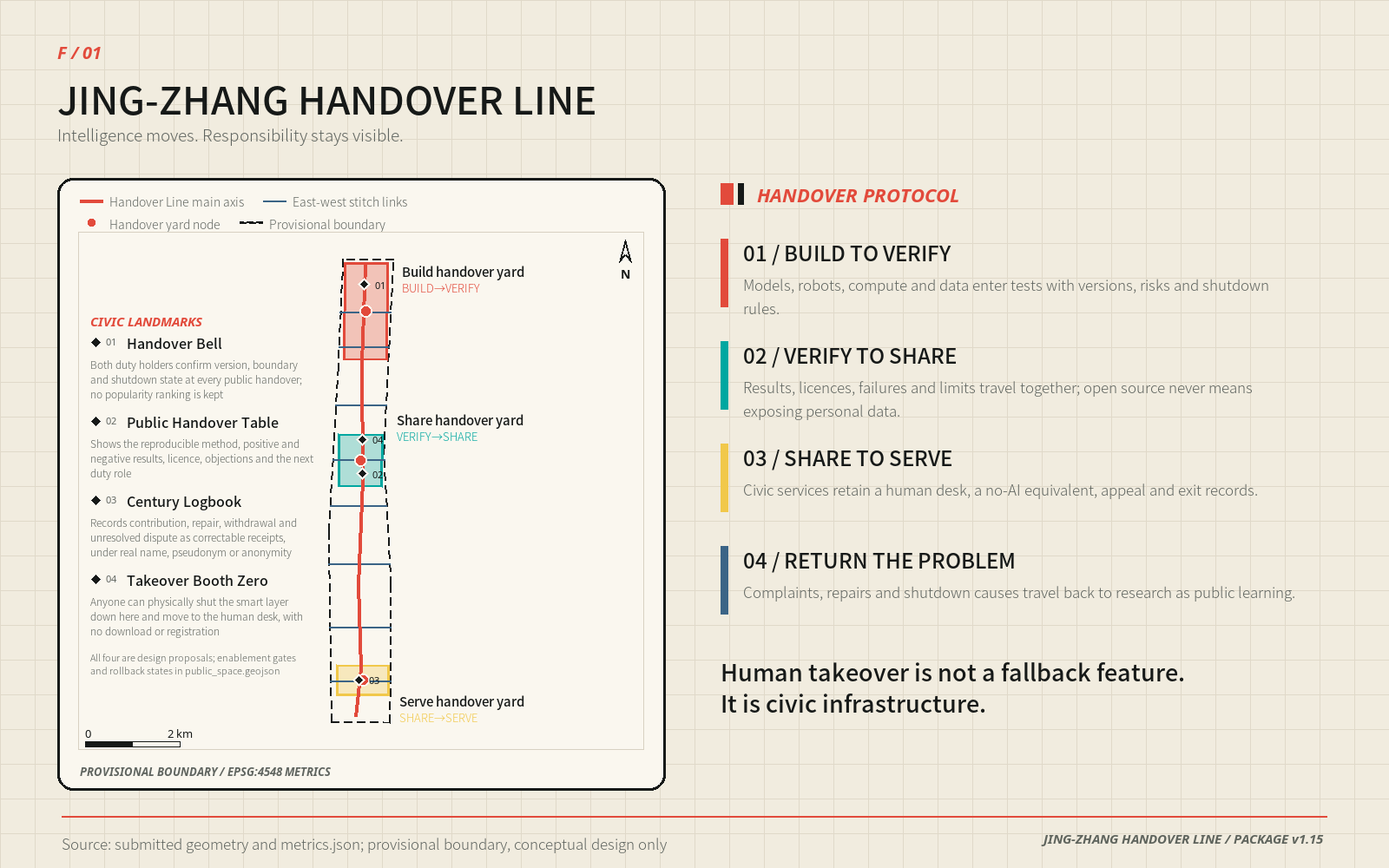
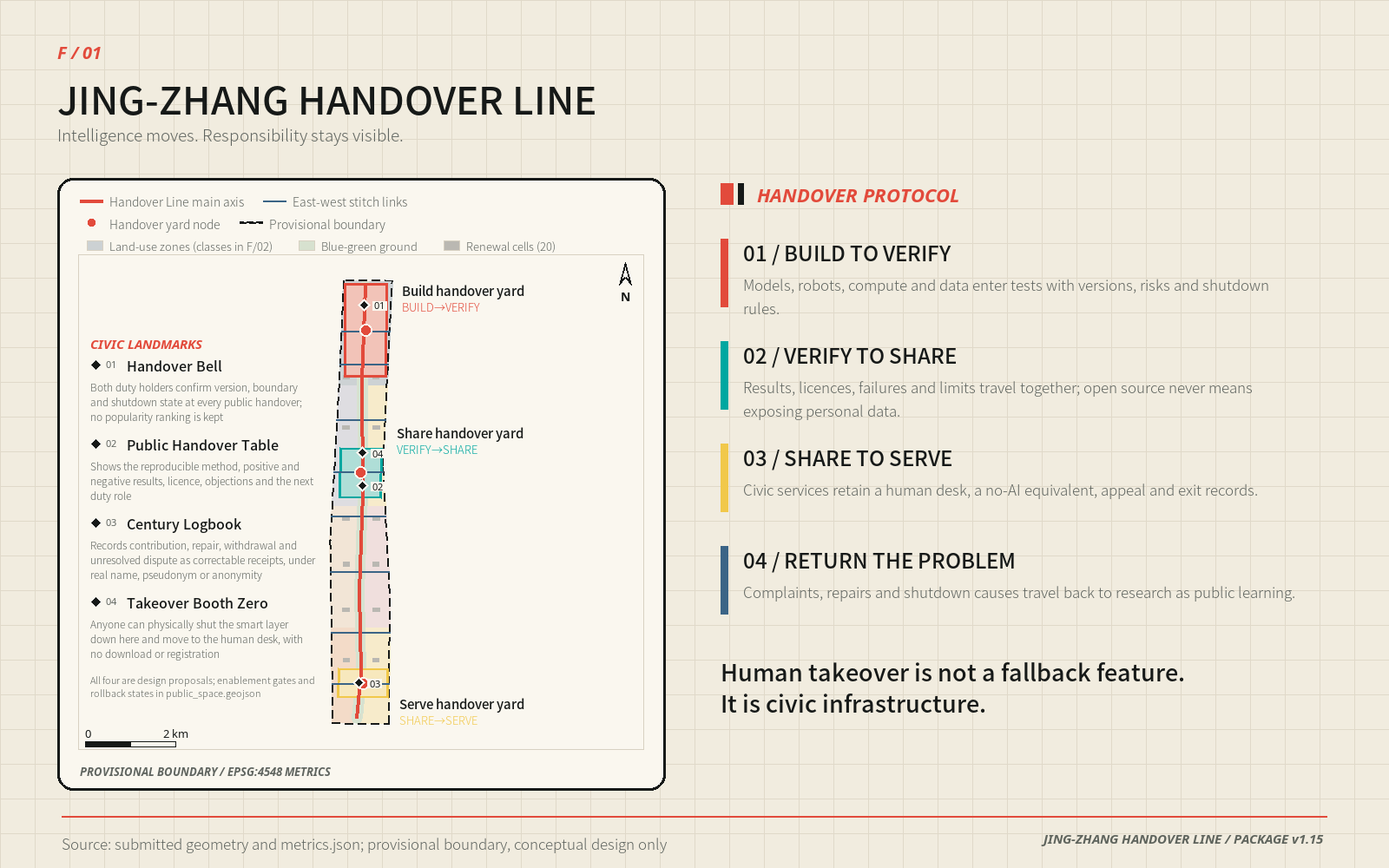
总览图走廊内部不再是白的；补回四处「矩阵点名、正文没有」的具体对象
上两轮（#3263、#3267）连续 90，方向确认，继续按同一条线找缺口。

- F/01 总览图此前走廊内部纯白，读者在「总平面总览」上看不到任何用地关系，
  而同一批几何在 A0 B/01 上早就画了。现补上用地分区、沿轴蓝绿基底与二十个
  更新单元，同源同色，并加一行图例说明。透明度按本图比例尺上调——A0 是整幅
  大图，F/01 走廊只有约 82px 宽，照抄 A0 的 0.14/0.34/0.55 在 72 dpi 下几乎
  看不见。顺手修掉地标编号 03 被主轴压成「θ3」的压字。
  四套 PDF 未内嵌这张图（swap_figure_only 实测换图 0 处），无需重建图纸。
- 系统审计 23 条 evidence_summary_zh，把摘要点名的具体对象与正文求差，抓出
  6 个「矩阵声称、正文没有」的对象：北五环、慢行断点、清河、西土城路、
  北京电影学院、屋顶形态，集中在公告 1.5.2.4 与 1.5.2.5 两条必答要求上。
  与上轮的 42 处章节断链同族：闸门查不到，评审读得到。
- 按公告补回内容，每条都写明不成立的推论：三处慢行断点只给连接意图与界面
  原则，不给桥隧形式、跨度或工程可行性结论；两条水系不改动河道形态与防洪
  断面；西土城路艺术资源属协作意向；屋顶形态按第五立面可读引导。

正文 26,529 → 27,193 字；中英 469/469 行、36/36 标题；四门全绿。

Changed region(s): [[0.0625, 0.279, 0.4062, 0.837], [0.4375, 0.279, 0.4688, 0.341]]

diff --git a/submissions/Sonike/jingzhang-handover-line/report/proposal.en.html b/submissions/Sonike/jingzhang-handover-line/report/proposal.en.html
@@ -144,7 +144,7 @@ code {
 <p>The submitted overall boundary recomputes to approximately 11.413 sq km and remains a provisional model quantity. The spatial framework is not the boundary colour field. It is a 9.50 km north-south handover spine, eight east-west stitch links, three Handover Yards and four civic landmarks. The east-west links reconnect universities, parks, communities and transit to the spine. The spine moves a capability from building to service and returns problems to research <sup class="evidence evidence-metric" data-evidence-kind="metric" data-evidence-value="site_area_sqm" title="Metric: site_area_sqm">Metric</sup> <sup class="evidence evidence-metric" data-evidence-kind="metric" data-evidence-value="handover_spine_length_m" title="Metric: handover_spine_length_m">Metric</sup> <sup class="evidence evidence-metric" data-evidence-kind="metric" data-evidence-value="cross_link_count" title="Metric: cross_link_count">Metric</sup>.</p>
 <p>The three key areas use one protocol but carry different duties. Zhongzhiyuan is the Build Handover Yard for BUILD→VERIFY. Beijing AI Origin Community is the Share Handover Yard for VERIFY→SHARE. Dazhongsi is the Serve Handover Yard for SHARE→SERVE. They are not three similar technology parks; they are three non-interchangeable functions in one innovation chain <sup class="evidence evidence-data" data-evidence-kind="data" data-evidence-value="geometry/key_areas.geojson#PROV-KEY-001" title="Spatial data: geometry/key_areas.geojson#PROV-KEY-001">Spatial data</sup> <sup class="evidence evidence-metric" data-evidence-kind="metric" data-evidence-value="key_area_count" title="Metric: key_area_count">Metric</sup>.</p>
 <figure class="proposal-figure"><img src="../assets/figures/site-overview.en.png" alt="Overall concept: one Handover Line, three Handover Yards, two support wings, eight stitch links and four civic landmarks"><figcaption>Overall concept: one Handover Line, three Handover Yards, two support wings, eight stitch links and four civic landmarks</figcaption></figure>
-<blockquote><p><strong>The dashed outline is a provisional range, not the protagonist.</strong> The red north-south line carries responsibility handover and the blue cross-links stitch everyday city life back to it. Three coloured yards place building, sharing and civic service in distinct duty positions. Four diamond landmarks make contribution, shutdown, maintenance and human takeover visible in public space.</p></blockquote>
+<blockquote><p><strong>The dashed outline is a provisional range, not the protagonist.</strong> The red north-south line carries responsibility handover and the blue cross-links stitch everyday city life back to it. Three coloured yards place building, sharing and civic service in distinct duty positions. Four diamond landmarks make contribution, shutdown, maintenance and human takeover visible in public space. The pale base inside the corridor comes from the same submitted geometry — land-use zones (classes in the land-use figure of the next section), the blue-green ground along the spine, and the twenty renewal cells — so the drawing shows a mixed-use stretch of city the line passes through, not an axis drawn on empty ground.</p></blockquote>
 <h2>Coordinated Research Area: Industry and Future City Research</h2>
 <p>The Handover Line is not another approval wall. It is a shorter and more trustworthy route for good technology to become urban. Conventional innovation chains often break between laboratory output and city use: a product lacks a controlled place to be tested, a service operator cannot identify which version it received, and failed experience does not return to research. The proposal fills this gap with four explicit handovers. BUILD brings version, risk and shutdown procedures to VERIFY. VERIFY passes positive and negative results with limits of applicability to SHARE. SHARE passes licence, maintenance and recall rules to SERVE. SERVE returns complaints, repairs and exit causes to BUILD.</p>
 <p>The taskbook’s three positionings therefore sit on one timeline. The Centennial Jing-Zhang Cultural Belt preserves the intergenerational memory of independent construction and responsible handover. The Metropolitan AI Life Experience Belt lets ordinary people understand, try, refuse and appeal. The AI Integrated Innovation Belt provides validation, open collaboration and industrial translation. Its five functions become research testing, result validation, open collaboration, civic service and long-term governance rather than five parallel slogans <sup class="evidence evidence-source" data-evidence-kind="source" data-evidence-value="AGENT-TASKBOOK" title="Source: AGENT-TASKBOOK">Source</sup> <sup class="evidence evidence-standard" data-evidence-kind="standard" data-evidence-value="PROJECT-AGENT-OPEN-CALL-TASKBOOK" title="Standard: PROJECT-AGENT-OPEN-CALL-TASKBOOK">Standard</sup>.</p>
@@ -190,6 +190,7 @@ code {
 <h2>Transport, Rail, Municipal Infrastructure, and Public Services</h2>
 <p>Transport first ensures that a person can complete the route continuously, then adds smart service. The north-south spine retains continuous walking and cycling surfaces while eight east-west links reconnect adjacent districts. The last 500 metres from transit to civic service prioritise orientation, shade, seating, accessibility and human help. When AI navigation fails, fixed wayfinding, a tactile map, an unpowered route and a person remain available <sup class="evidence evidence-data" data-evidence-kind="data" data-evidence-value="geometry/roads.geojson#ROAD-001" title="Spatial data: geometry/roads.geojson#ROAD-001">Spatial data</sup> <sup class="evidence evidence-depth" data-evidence-kind="depth" data-evidence-value="traffic_rail_slow_parking" title="Depth: traffic_rail_slow_parking">Depth</sup>.</p>
 <p>The proposal does not pre-design railway or road engineering. Eight spine-link intersections are registered as potential grade-break review points and require surveyed long sections and road redlines. Maximum gradient is not inferred without elevation data. Robots and delivery devices may be tested only in separated, time-bounded areas where a safety steward can stop them physically; they may not occupy the step-free walking surface.</p>
+<p>As the backbone of the vitality belt, the heritage park has three walking-continuity breakpoints that must be handled individually: the junction with the existing street network at its north end, the crossing towards Dazhongsi at its south end, and continuity where it passes over the North Fifth Ring Road. At these three points this proposal states only the intent to connect and the interface principles — continuous, with a usable detour, shaded, and with staffed wayfinding — and <strong>states no bridge or tunnel form, span, or engineering feasibility conclusion</strong>; those three belong to transport and municipal professionals working from survey data and statutory procedure <sup class="evidence evidence-depth" data-evidence-kind="depth" data-evidence-value="traffic_rail_slow_parking" title="Depth: traffic_rail_slow_parking">Depth</sup>.</p>
 <p>Municipal strategy begins with reversible metering. Edge devices meter energy and heat independently. Temporary installations do not connect to unverified municipal systems. Drinking water, toilets, shaded seating, staffed counters, steady lighting, telephone and paper service precede new screens. Sensors may report status; they cannot establish drainage, power, fire, structure or communications capacity <sup class="evidence evidence-depth" data-evidence-kind="depth" data-evidence-value="municipal_new_infrastructure" title="Depth: municipal_new_infrastructure">Depth</sup>.</p>
 <figure class="proposal-figure"><img src="../assets/figures/mobility-bluegreen.en.png" alt="Continuous transport, walking, blue-green civic space and the twelve AI scenario nodes"><figcaption>Continuous transport, walking, blue-green civic space and the twelve AI scenario nodes</figcaption></figure>
 <p>Public service uses two layers, not a primary service and a fallback. The basic layer consists of staff, telephone, paper, fixed wayfinding and directly usable space. Only after that layer exists does the smart layer add translation, retrieval, reminders, route explanation and state organisation. Turning the smart layer off never downgrades the basic layer. This protects older people, disabled people, children, international visitors, people without smartphones and anyone who chooses not to use an algorithm.</p>
@@ -197,6 +198,8 @@ code {
 <p>In the submitted model, concept green space represents approximately 19.84% of the provisional range and concept public handover ground approximately 9.11%. These are internal design-geometry quantities, not surveyed green ratio, statutory control or built increase. They must be redrawn and recomputed when ecological baseline, trees, hydrology, terrain and public-space surveys become available <sup class="evidence evidence-metric" data-evidence-kind="metric" data-evidence-value="green_ratio" title="Metric: green_ratio">Metric</sup> <sup class="evidence evidence-metric" data-evidence-kind="metric" data-evidence-value="public_space_ratio" title="Metric: public_space_ratio">Metric</sup> <sup class="evidence evidence-depth" data-evidence-kind="depth" data-evidence-value="blue_green_public_space" title="Depth: blue_green_public_space">Depth</sup>.</p>
 <p>The blue-green system performs three practical jobs. It gives continuous walking shade and rest, offers reversible points for rain and soil observation, and forms a speed buffer between human service and machine testing. Rest strips have no spending threshold. Vegetation, movable separation and the safety steward’s duty together separate a test lane from the walk; a screen warning alone is insufficient.</p>
 <p>Urban character derives from four railway primitives: line, station, shift and ledger. The line is continuous space, the stations are the three Handover Yards, the shift is a role and version, and the ledger is a public record. Materials prioritise maintenance, replacement and legibility. The scheme avoids giant technology sculptures and irreversible dedicated devices. Night lighting keeps a steady basic layer and returns to it whenever smart adjustment fails.</p>
+<p>Two watercourses anchor public life in the northern and middle stretches: the Qing River in the north and the Xiaoyue River in the middle. Waterside sections give priority to shade, places to sit and stop, and continuous walking; bankside fittings are removable and maintainable, and neither the channel form nor the flood section is altered. Art resources along Xitucheng Road, represented by the Beijing Film Academy, are connected on a &quot;link without occupying&quot; basis — a possible collaboration on filmed records, public screenings and shared narrative, an intention rather than a settled arrangement. The same applies towards Qinghuayuan Station: no change to the heritage fabric itself is proposed, and protection measures and opening arrangements follow the heritage authority.</p>
+<p>Height and intensity await the official regulatory plan, so character control uses checkable guidance rather than fixed numbers: massing is controlled through courtyards, through-passages and segmented frontages; <strong>roof form is guided by &quot;equipment integrated first, a legible fifth facade, and no large reflective or glare-producing surfaces&quot;</strong>, with space reserved for distributed energy and rainwater facilities. All of this is urban-design advice, subject to statutory approval <sup class="evidence evidence-source" data-evidence-kind="source" data-evidence-value="MOHURD-URBAN-DESIGN-MEASURES" title="Source: MOHURD-URBAN-DESIGN-MEASURES">Source</sup> <sup class="evidence evidence-depth" data-evidence-kind="depth" data-evidence-value="height_massing_character" title="Depth: height_massing_character">Depth</sup>.</p>
 <p>Four AI pilgrimage landmarks move honour away from capital scale and towards civic contribution. The Handover Bell records when a capability was accepted independently. The Public Handover Table shows positive and negative results with refusal reasons. The Century Logbook credits maintainers, repairers and people who stopped a service in time. Takeover Booth Zero makes basic service, human help and the stop entrance visible. All are concepts subject to ownership, heritage and public-space procedure <sup class="evidence evidence-metric" data-evidence-kind="metric" data-evidence-value="civic_landmark_count" title="Metric: civic_landmark_count">Metric</sup> <sup class="evidence evidence-data" data-evidence-kind="data" data-evidence-value="geometry/public_space.geojson#LANDMARK-01" title="Spatial data: geometry/public_space.geojson#LANDMARK-01">Spatial data</sup>.</p>
 <h3>Honour display system: a correctable record, not a leaderboard</h3>
 <p>Honour records run a seven-step loop — nomination, evidence, dual review, published objection, correction, withdrawal, appeal — and accept real names, pseudonyms, or anonymity. They are never ranked by traffic or votes. Every record must be open to being challenged and corrected; a withdrawn record keeps its stated reason for withdrawal rather than being erased from public memory. The Century Logbook is its physical carrier, and the Handover Bell and Public Handover Table are its once-a-year public moment <sup class="evidence evidence-data" data-evidence-kind="data" data-evidence-value="geometry/public_space.geojson#LANDMARK-03" title="Spatial data: geometry/public_space.geojson#LANDMARK-03">Spatial data</sup>.</p>

diff --git a/submissions/Sonike/jingzhang-handover-line/report/proposal.html b/submissions/Sonike/jingzhang-handover-line/report/proposal.html
@@ -144,7 +144,7 @@ code {
 <p>总体设计范围在提交几何中复算为约 11.413 平方公里，只是临时模型量。空间骨架不是边界色块，而是 9.50 公里的南北交接主轴、八条东西缝合支线、三座交接场和四处公共地标。东西支线把高校、园区、社区、轨道与公园生活接回主轴；南北主轴让一项能力从研制走到服务，再把问题送回研发 <sup class="evidence evidence-metric" data-evidence-kind="metric" data-evidence-value="site_area_sqm" title="指标：site_area_sqm">指标</sup> <sup class="evidence evidence-metric" data-evidence-kind="metric" data-evidence-value="handover_spine_length_m" title="指标：handover_spine_length_m">指标</sup> <sup class="evidence evidence-metric" data-evidence-kind="metric" data-evidence-value="cross_link_count" title="指标：cross_link_count">指标</sup>。</p>
 <p>三处重点区域采用同一交接协议，但承担不同责任：众智园是研制交接场，负责 BUILD→VERIFY；北京 AI 原点社区是开源交接场，负责 VERIFY→SHARE；大钟寺是城市交接场，负责 SHARE→SERVE。三者不是三个相似园区，而是同一条创新链上不能互相替代的三种城市功能 <sup class="evidence evidence-data" data-evidence-kind="data" data-evidence-value="geometry/key_areas.geojson#PROV-KEY-001" title="空间数据：geometry/key_areas.geojson#PROV-KEY-001">空间数据</sup> <sup class="evidence evidence-metric" data-evidence-kind="metric" data-evidence-value="key_area_count" title="指标：key_area_count">指标</sup>。</p>
 <figure class="proposal-figure"><img src="../assets/figures/site-overview.png" alt="总体概念：一条交接线、三座交接场、两翼支撑、八条缝合支线与四处公共地标"><figcaption>总体概念：一条交接线、三座交接场、两翼支撑、八条缝合支线与四处公共地标</figcaption></figure>
-<blockquote><p><strong>图中虚线是临时范围，不是设计主角。</strong> 红色南北线承担责任交接，蓝色横线缝合两侧城市生活；三个彩色交接场分别把研制、开源和公共服务放在不同的责任位置。四个菱形地标让贡献、停用、维修和人工接管能在公共空间被看见。</p></blockquote>
+<blockquote><p><strong>图中虚线是临时范围，不是设计主角。</strong> 红色南北线承担责任交接，蓝色横线缝合两侧城市生活；三个彩色交接场分别把研制、开源和公共服务放在不同的责任位置。四个菱形地标让贡献、停用、维修和人工接管能在公共空间被看见。走廊内部的浅色底图是同一批提交几何：用地分区（分类见下一节的用地图）、沿轴的蓝绿基底与二十个更新单元，用来说明这条线穿过的是一段有功能混合的城市，而不是一条画在空地上的轴。</p></blockquote>
 <h2>统筹研究范围产业与未来城市研究</h2>
 <p>交接线不是给创新加一道审批墙，而是给好技术一条更短、更可信的城市化路径。常规创新链常在“实验室成果”和“城市应用”之间断开：产品不知道去哪里做受控验证，公共服务方不知道接收了哪个版本，失败经验又回不到研发。本方案把这段空白拆成四次明确交接：研制携带版本、风险和停止办法进入验证；验证把正负结果与适用边界一起交给开源；开源把许可、维护和撤回办法交给服务；服务把投诉、维修和退出原因送回研制。</p>
 <p>任务书的三大定位因此落在同一条时间线上。百年京张文化带保存“自主建造与交班”的跨代记忆；都市 AI 生活体验带让普通人能看懂、试用、拒绝和申诉；AI 融合创新带提供验证、开源与产业转化接口。五大功能分别落到研发试验、成果验证、开放协作、城市服务和长期治理，而不是并列成五个口号 <sup class="evidence evidence-source" data-evidence-kind="source" data-evidence-value="AGENT-TASKBOOK" title="来源：AGENT-TASKBOOK">来源</sup> <sup class="evidence evidence-standard" data-evidence-kind="standard" data-evidence-value="PROJECT-AGENT-OPEN-CALL-TASKBOOK" title="标准：PROJECT-AGENT-OPEN-CALL-TASKBOOK">标准</sup>。</p>
@@ -190,6 +190,7 @@ code {
 <h2>交通、轨道、市政与公共服务设施</h2>
 <p>交通策略先确保“人能连续走完”，再叠加智能服务。南北主轴保留连续步行与骑行面，八条东西支线连接两侧街区；站口到公共服务的最后五百米优先完成辨向、遮荫、坐憩、无障碍和人工求助。AI 导航失效时，固定导视、触觉地图、无电路线和真人仍然可用 <sup class="evidence evidence-data" data-evidence-kind="data" data-evidence-value="geometry/roads.geojson#ROAD-001" title="空间数据：geometry/roads.geojson#ROAD-001">空间数据</sup> <sup class="evidence evidence-depth" data-evidence-kind="depth" data-evidence-value="traffic_rail_slow_parking" title="深度：traffic_rail_slow_parking">深度</sup>。</p>
 <p>轨道与道路工程不被本方案预设。八个主轴—支线交汇点被登记为潜在高差检查点，需用正式纵断面和道路红线逐处复核；未取得高程时不推算最大纵坡。机器人和配送只在明确隔离、限时开放并由安全员可物理停机的范围内测试，不能侵占无障碍步行面。</p>
+<p>遗址公园作为活力带骨架，有三处慢行断点必须单独处理：北端与既有城市路网的衔接、南端进入大钟寺方向的过街、以及上跨北五环的连续性。本方案在这三处只给出连接意图与界面原则——连续、可绕行、有遮荫、有人工问路——<strong>不给桥隧形式、跨度或工程可行性结论</strong>，这三项须由交通与市政专业依实测和法定程序确定 <sup class="evidence evidence-depth" data-evidence-kind="depth" data-evidence-value="traffic_rail_slow_parking" title="深度：traffic_rail_slow_parking">深度</sup>。</p>
 <p>市政策略从可逆计量开始。端侧设备必须独立计量用电和温升，临时设施不接入未经核定的市政系统；饮水、厕所、遮荫座椅、人工窗口、常亮照明、电话和纸本服务优先于新增屏幕。传感器可以报告状态，不能代替排水、电力、消防、结构和通信容量的专业核定 <sup class="evidence evidence-depth" data-evidence-kind="depth" data-evidence-value="municipal_new_infrastructure" title="深度：municipal_new_infrastructure">深度</sup>。</p>
 <figure class="proposal-figure"><img src="../assets/figures/mobility-bluegreen.png" alt="交通、慢行、蓝绿公共空间与十二个 AI 场景的连续关系"><figcaption>交通、慢行、蓝绿公共空间与十二个 AI 场景的连续关系</figcaption></figure>
 <p>公共服务采用“双层服务”而不是“备用服务”。基础层由人工窗口、电话、纸本、固定导视和可直接使用的空间组成；智能层只在基础层已经成立后提供翻译、检索、提醒、路径说明和状态整理。智能层被关闭时，基础层不降级；这条原则保护老人、残障者、儿童、国际访客、无智能手机者和主动拒绝算法的人。</p>
@@ -197,6 +198,8 @@ code {
 <p>提交模型中的概念绿地约占临时范围 19.84%，概念公共交接面约占 9.11%。它们是设计几何的内部量，不是现状绿地率、法定指标或已实施增量。正式生态本底、树木、水文、地形与公共空间调查到位后须重新划定和复算 <sup class="evidence evidence-metric" data-evidence-kind="metric" data-evidence-value="green_ratio" title="指标：green_ratio">指标</sup> <sup class="evidence evidence-metric" data-evidence-kind="metric" data-evidence-value="public_space_ratio" title="指标：public_space_ratio">指标</sup> <sup class="evidence evidence-depth" data-evidence-kind="depth" data-evidence-value="blue_green_public_space" title="深度：blue_green_public_space">深度</sup>。</p>
 <p>蓝绿空间承担三种实际作用：为连续步行面提供遮荫与休息，为雨水和土壤观察提供可逆测量位置，为人工服务和智能测试之间形成速度缓冲。休憩带不设消费门槛；机器试验带与步行面之间用植被、围界和安全员职责共同分隔，不能只靠屏幕提示。</p>
 <p>城市风貌从铁路的“线、站、班、簿”四个原型出发。线对应连续空间，站对应三座交接场，班对应角色与版本，簿对应公开记录。材料以可维护、可更换、可读为先，避免巨型科技雕塑和不可撤的专用装置；夜间照明保持常亮基础层，智能调节异常时回到稳定照明。</p>
+<p>两条水系分别锚固北段与中段的公共生活：北段的清河与中段的小月河，滨水段优先给树荫、可坐可停与连续慢行，水岸设施可撤除、可维护，不改动河道形态与防洪断面。西土城路方向以北京电影学院为代表的艺术资源按“连接而不占用”接入，承担影像记录、公共放映与叙事共创的合作可能，属协作意向而非已确定安排；清华园车站方向同理，不主张对文物本体作任何改动，保护措施与开放方式以文保主管部门意见为准。</p>
+<p>高度与强度待官方控规确定，因此风貌管控采用“可校验的引导”而不是固定数值：体量以院落、穿行门廊和界面分段控制；<strong>屋顶形态按“设备整合优先、第五立面可读、避免大面积反光与眩光”引导</strong>，并为分布式能源与雨水设施预留位置。以上属城市设计建议，最终以法定审批为准 <sup class="evidence evidence-source" data-evidence-kind="source" data-evidence-value="MOHURD-URBAN-DESIGN-MEASURES" title="来源：MOHURD-URBAN-DESIGN-MEASURES">来源</sup> <sup class="evidence evidence-depth" data-evidence-kind="depth" data-evidence-value="height_massing_character" title="深度：height_massing_character">深度</sup>。</p>
 <p>四处 AI 朝圣地标把荣誉从资本规模转向公共贡献：交接钟记录一项能力何时被独立接收；公开交接桌展示正负结果和拒收理由；百年值班簿保存维护者、修复者与及时停用者的署名；零号接管亭让任何人看见基础服务、人工求助和停用入口。四处均为概念建议，落位须服从权属、文保与公共空间程序 <sup class="evidence evidence-metric" data-evidence-kind="metric" data-evidence-value="civic_landmark_count" title="指标：civic_landmark_count">指标</sup> <sup class="evidence evidence-data" data-evidence-kind="data" data-evidence-value="geometry/public_space.geojson#LANDMARK-01" title="空间数据：geometry/public_space.geojson#LANDMARK-01">空间数据</sup>。</p>
 <h3>荣誉展示体系：可纠错的记录，不是排行榜</h3>
 <p>荣誉记录按“提名—证据—双复核—公示异议—纠错—撤回—申诉”七步闭环运行，允许实名、化名或匿名署名，不按流量或投票排名。任何一条记录都必须能被指出错误并被改正；被撤回的记录保留撤回原因，不从公共记忆里抹去。百年值班簿是它的物理载体，交接钟与公开交接桌是它每年一次的公开时刻 <sup class="evidence evidence-data" data-evidence-kind="data" data-evidence-value="geometry/public_space.geojson#LANDMARK-03" title="空间数据：geometry/public_space.geojson#LANDMARK-03">空间数据</sup>。</p>

diff --git a/submissions/Sonike/jingzhang-handover-line/proposal.en.md b/submissions/Sonike/jingzhang-handover-line/proposal.en.md
@@ -91,7 +91,7 @@ The three key areas use one protocol but carry different duties. Zhongzhiyuan is
 
 ![Overall concept: one Handover Line, three Handover Yards, two support wings, eight stitch links and four civic landmarks](assets/figures/site-overview.en.png)
 
-> **The dashed outline is a provisional range, not the protagonist.** The red north-south line carries responsibility handover and the blue cross-links stitch everyday city life back to it. Three coloured yards place building, sharing and civic service in distinct duty positions. Four diamond landmarks make contribution, shutdown, maintenance and human takeover visible in public space.
+> **The dashed outline is a provisional range, not the protagonist.** The red north-south line carries responsibility handover and the blue cross-links stitch everyday city life back to it. Three coloured yards place building, sharing and civic service in distinct duty positions. Four diamond landmarks make contribution, shutdown, maintenance and human takeover visible in public space. The pale base inside the corridor comes from the same submitted geometry — land-use zones (classes in the land-use figure of the next section), the blue-green ground along the spine, and the twenty renewal cells — so the drawing shows a mixed-use stretch of city the line passes through, not an axis drawn on empty ground.
 
 ## Coordinated Research Area: Industry and Future City Research
 
@@ -239,6 +239,8 @@ Transport first ensures that a person can complete the route continuously, then 
 
 The proposal does not pre-design railway or road engineering. Eight spine-link intersections are registered as potential grade-break review points and require surveyed long sections and road redlines. Maximum gradient is not inferred without elevation data. Robots and delivery devices may be tested only in separated, time-bounded areas where a safety steward can stop them physically; they may not occupy the step-free walking surface.
 
+As the backbone of the vitality belt, the heritage park has three walking-continuity breakpoints that must be handled individually: the junction with the existing street network at its north end, the crossing towards Dazhongsi at its south end, and continuity where it passes over the North Fifth Ring Road. At these three points this proposal states only the intent to connect and the interface principles — continuous, with a usable detour, shaded, and with staffed wayfinding — and **states no bridge or tunnel form, span, or engineering feasibility conclusion**; those three belong to transport and municipal professionals working from survey data and statutory procedure [depth:traffic_rail_slow_parking].
+
 Municipal strategy begins with reversible metering. Edge devices meter energy and heat independently. Temporary installations do not connect to unverified municipal systems. Drinking water, toilets, shaded seating, staffed counters, steady lighting, telephone and paper service precede new screens. Sensors may report status; they cannot establish drainage, power, fire, structure or communications capacity [depth:municipal_new_infrastructure].
 
 ![Continuous transport, walking, blue-green civic space and the twelve AI scenario nodes](assets/figures/mobility-bluegreen.en.png)
@@ -252,6 +254,10 @@ In the submitted model, concept green space represents approximately 19.84% of t
 The blue-green system performs three practical jobs. It gives continuous walking shade and rest, offers reversible points for rain and soil observation, and forms a speed buffer between human service and machine testing. Rest strips have no spending threshold. Vegetation, movable separation and the safety steward’s duty together separate a test lane from the walk; a screen warning alone is insufficient.
 
 Urban character derives from four railway primitives: line, station, shift and ledger. The line is continuous space, the stations are the three Handover Yards, the shift is a role and version, and the ledger is a public record. Materials prioritise maintenance, replacement and legibility. The scheme avoids giant technology sculptures and irreversible dedicated devices. Night lighting keeps a steady basic layer and returns to it whenever smart adjustment fails.
+
+Two watercourses anchor public life in the northern and middle stretches: the Qing River in the north and the Xiaoyue River in the middle. Waterside sections give priority to shade, places to sit and stop, and continuous walking; bankside fittings are removable and maintainable, and neither the channel form nor the flood section is altered. Art resources along Xitucheng Road, represented by the Beijing Film Academy, are connected on a "link without occupying" basis — a possible collaboration on filmed records, public screenings and shared narrative, an intention rather than a settled arrangement. The same applies towards Qinghuayuan Station: no change to the heritage fabric itself is proposed, and protection measures and opening arrangements follow the heritage authority.
+
+Height and intensity await the official regulatory plan, so character control uses checkable guidance rather than fixed numbers: massing is controlled through courtyards, through-passages and segmented frontages; **roof form is guided by "equipment integrated first, a legible fifth facade, and no large reflective or glare-producing surfaces"**, with space reserved for distributed energy and rainwater facilities. All of this is urban-design advice, subject to statutory approval [source:MOHURD-URBAN-DESIGN-MEASURES] [depth:height_massing_character].
 
 Four AI pilgrimage landmarks move honour away from capital scale and towards civic contribution. The Handover Bell records when a capability was accepted independently. The Public Handover Table shows positive and negative results with refusal reasons. The Century Logbook credits maintainers, repairers and people who stopped a service in time. Takeover Booth Zero makes basic service, human help and the stop entrance visible. All are concepts subject to ownership, heritage and public-space procedure [metric:civic_landmark_count] [data:geometry/public_space.geojson#LANDMARK-01].
 

diff --git a/submissions/Sonike/jingzhang-handover-line/proposal.md b/submissions/Sonike/jingzhang-handover-line/proposal.md
@@ -91,7 +91,7 @@ iteration: "v1.15"
 
 ![总体概念：一条交接线、三座交接场、两翼支撑、八条缝合支线与四处公共地标](assets/figures/site-overview.png)
 
-> **图中虚线是临时范围，不是设计主角。** 红色南北线承担责任交接，蓝色横线缝合两侧城市生活；三个彩色交接场分别把研制、开源和公共服务放在不同的责任位置。四个菱形地标让贡献、停用、维修和人工接管能在公共空间被看见。
+> **图中虚线是临时范围，不是设计主角。** 红色南北线承担责任交接，蓝色横线缝合两侧城市生活；三个彩色交接场分别把研制、开源和公共服务放在不同的责任位置。四个菱形地标让贡献、停用、维修和人工接管能在公共空间被看见。走廊内部的浅色底图是同一批提交几何：用地分区（分类见下一节的用地图）、沿轴的蓝绿基底与二十个更新单元，用来说明这条线穿过的是一段有功能混合的城市，而不是一条画在空地上的轴。
 
 ## 统筹研究范围产业与未来城市研究
 
@@ -239,6 +239,8 @@ iteration: "v1.15"
 
 轨道与道路工程不被本方案预设。八个主轴—支线交汇点被登记为潜在高差检查点，需用正式纵断面和道路红线逐处复核；未取得高程时不推算最大纵坡。机器人和配送只在明确隔离、限时开放并由安全员可物理停机的范围内测试，不能侵占无障碍步行面。
 
+遗址公园作为活力带骨架，有三处慢行断点必须单独处理：北端与既有城市路网的衔接、南端进入大钟寺方向的过街、以及上跨北五环的连续性。本方案在这三处只给出连接意图与界面原则——连续、可绕行、有遮荫、有人工问路——**不给桥隧形式、跨度或工程可行性结论**，这三项须由交通与市政专业依实测和法定程序确定 [depth:traffic_rail_slow_parking]。
+
 市政策略从可逆计量开始。端侧设备必须独立计量用电和温升，临时设施不接入未经核定的市政系统；饮水、厕所、遮荫座椅、人工窗口、常亮照明、电话和纸本服务优先于新增屏幕。传感器可以报告状态，不能代替排水、电力、消防、结构和通信容量的专业核定 [depth:municipal_new_infrastructure]。
 
 ![交通、慢行、蓝绿公共空间与十二个 AI 场景的连续关系](assets/figures/mobility-bluegreen.png)
@@ -252,6 +254,10 @@ iteration: "v1.15"
 蓝绿空间承担三种实际作用：为连续步行面提供遮荫与休息，为雨水和土壤观察提供可逆测量位置，为人工服务和智能测试之间形成速度缓冲。休憩带不设消费门槛；机器试验带与步行面之间用植被、围界和安全员职责共同分隔，不能只靠屏幕提示。
 
 城市风貌从铁路的“线、站、班、簿”四个原型出发。线对应连续空间，站对应三座交接场，班对应角色与版本，簿对应公开记录。材料以可维护、可更换、可读为先，避免巨型科技雕塑和不可撤的专用装置；夜间照明保持常亮基础层，智能调节异常时回到稳定照明。
+
+两条水系分别锚固北段与中段的公共生活：北段的清河与中段的小月河，滨水段优先给树荫、可坐可停与连续慢行，水岸设施可撤除、可维护，不改动河道形态与防洪断面。西土城路方向以北京电影学院为代表的艺术资源按“连接而不占用”接入，承担影像记录、公共放映与叙事共创的合作可能，属协作意向而非已确定安排；清华园车站方向同理，不主张对文物本体作任何改动，保护措施与开放方式以文保主管部门意见为准。
+
+高度与强度待官方控规确定，因此风貌管控采用“可校验的引导”而不是固定数值：体量以院落、穿行门廊和界面分段控制；**屋顶形态按“设备整合优先、第五立面可读、避免大面积反光与眩光”引导**，并为分布式能源与雨水设施预留位置。以上属城市设计建议，最终以法定审批为准 [source:MOHURD-URBAN-DESIGN-MEASURES] [depth:height_massing_character]。
 
 四处 AI 朝圣地标把荣誉从资本规模转向公共贡献：交接钟记录一项能力何时被独立接收；公开交接桌展示正负结果和拒收理由；百年值班簿保存维护者、修复者与及时停用者的署名；零号接管亭让任何人看见基础服务、人工求助和停用入口。四处均为概念建议，落位须服从权属、文保与公共空间程序 [metric:civic_landmark_count] [data:geometry/public_space.geojson#LANDMARK-01]。
 

diff --git a/submissions/Sonike/jingzhang-handover-line/changelog.md b/submissions/Sonike/jingzhang-handover-line/changelog.md
@@ -1,5 +1,11 @@
 # 方案迭代记录
 
+- **总览图的走廊内部不再是白的，并补回四处「摘要点名、正文没有」的具体对象（2026-08-18，不改版本号）。** 上两轮（#3263、#3267）连续 **90**，方向确认，本轮继续按同一条线找缺口。
+  - **F/01 总览图此前走廊内部是纯白的**：读者在这张「总平面总览」上看不到任何用地关系，而**同一批几何在 A0 B/01 上早就画了**。现把用地分区、沿轴蓝绿基底与二十个更新单元按同源同色补进去，并加一行图例说明这三层。透明度按本图比例尺上调（A0 是整幅大图，F/01 走廊只有约 82px 宽，照抄 A0 的 0.14/0.34/0.55 在 72 dpi 预览下几乎看不见）。顺手修掉地标编号「03」被主轴红线压成「θ3」的压字——编号加卡面底衬。**四套 PDF 未内嵌这张图（`swap_figure_only.py` 实测换图 0 处），因此无需重建图纸。**
+  - **系统审计了 23 条 `evidence_summary_zh`**：把摘要里点名的具体对象与正文求差，抓出 6 个「矩阵声称、正文没有」的对象——北五环、慢行断点、清河、西土城路、北京电影学院、屋顶形态，集中在公告 1.5.2.4（京张遗址公园活力带）与 1.5.2.5（城市风貌）两条**必答要求**上。这与上一轮修的 42 处章节断链是同一族缺陷：**闸门查不到，评审读得到。**
+  - 按公告要求把内容补回，且都写明不成立的推论：遗址公园三处慢行断点（北端衔接、南端过街、上跨北五环）只给连接意图与界面原则，**不给桥隧形式、跨度或工程可行性结论**；清河与小月河两条水系锚固北段与中段，不改动河道形态与防洪断面；西土城路方向的艺术资源按「连接而不占用」接入，属协作意向；屋顶形态按「设备整合优先、第五立面可读、避免大面积反光与眩光」引导，高度与强度仍待官方控规。
+  - 复核：6 个对象现已全部在正文中存在；正文 26,529 → 27193 字，中英标题 36/36、行数 469/469 对齐，四门全绿。
+
 - **把「许可上界」与字体权利表写回评审看得见的地方，并按 96 分方案的做法把证据映射差异化（2026-08-18，不改版本号）。** 上一轮（PR #3263，**88 → 90**）证实「补回被减法删掉的必答内容」方向有效，本轮继续沿同一条线找还缺什么。
   - **`risk_compliance` 那条关键论证也曾被一并删掉。** 2026-08-17（PR #3147）把 `COMMUNITY-DISPLAY-ONLY` 由「须信任我们的条款文本」改写成「可依据一份成熟许可判断」，本地采样 risk 由 4,4,4 变 5,5,5；随后的减法重构把这三段话删了，正文里 `CC BY-NC` 出现 0 次。现已写回并当场复核了三项事实：该标识确是组织方 `schema/proposal.schema.json` 中 `license` 的三个枚举值之一（另两个 `CC-BY-4.0`／`CC-BY-SA-4.0` **都允许商业使用**，所以不存在能同时满足非商业与「不得表述为政府决定」的标准选项）；它在主线非 submissions 文件中**共出现 5 次**（`agent.html`、schema、`scaffold_ai_submission.py`、`validate_submission.py`、`templates/proposal.md`），全部是枚举值、模板占位或校验白名单，**没有一处给出条款内容**；上界表述为「本许可授予的每一项使用 CC BY-NC 4.0 都同样允许」，推论是按 CC BY-NC 4.0 行事的第三方不会越出本许可。
   - **字体权利链此前只指向 `report/copyright_statement.md`，而那个文件不在评审输入里**——等于没给证据。现改为正文内 5 行表格（用途／字体／权利依据／现场核验方式），逐项挂 `FONT-*` 来源并给可当场运行的命令（`pdffonts` 看 emb 列、`find` 确认包内字体文件数为 0）。此前 8 条 `FONT-*` 来源登记在 `sources.json` 却在评审可读文本里一次也没被引用。
